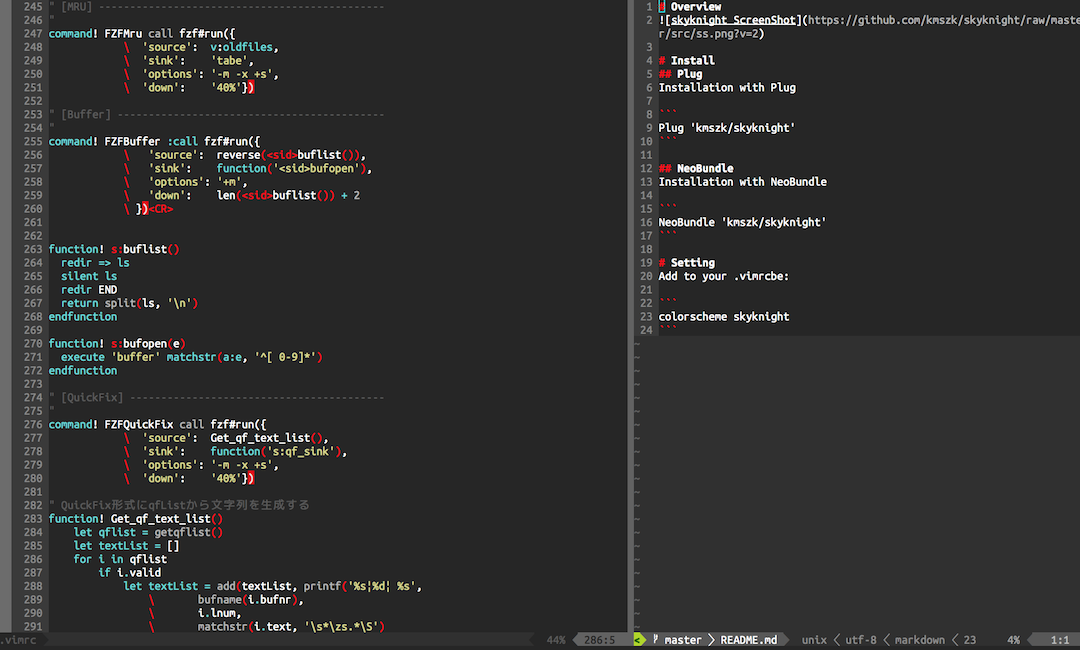
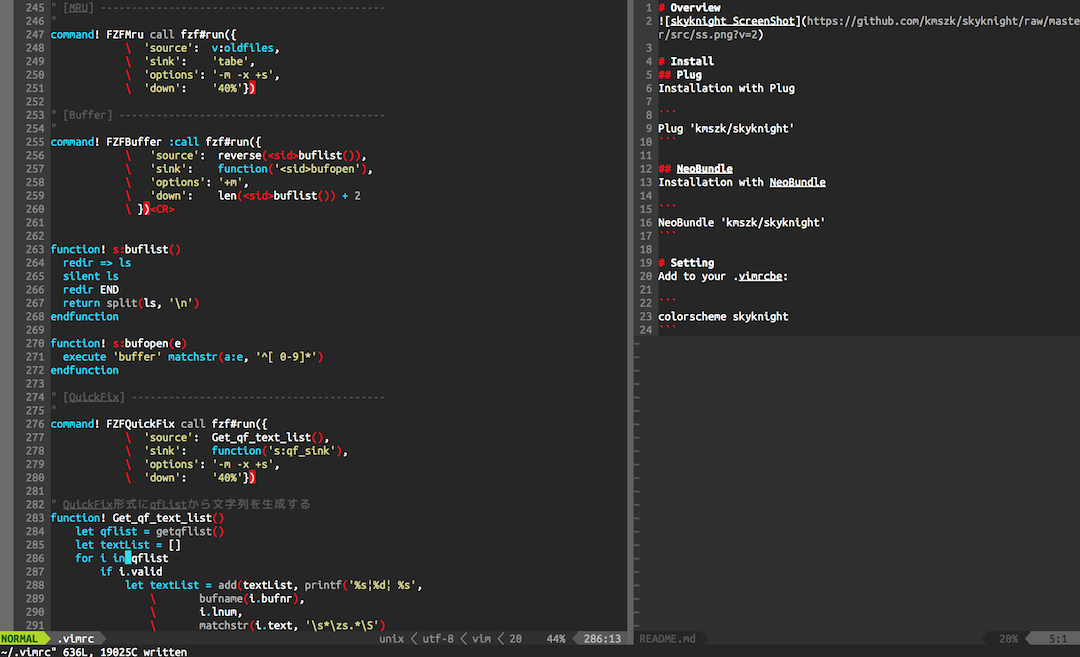
水色調整

Changed region(s): [[0.0, 0.0, 1.0, 1.0], [0.5806, 0.1846, 0.7639, 0.5231], [0.5806, 0.0, 1.0, 0.1538]]

diff --git a/README.md b/README.md
@@ -1,5 +1,5 @@
 # Overview
-![skyknight ScreenShot](https://github.com/kmszk/skyknight/raw/master/src/ss.png?v=2)
+![skyknight ScreenShot](https://github.com/kmszk/skyknight/raw/master/src/ss.png?v=3)
 
 # Install
 ## Plug
